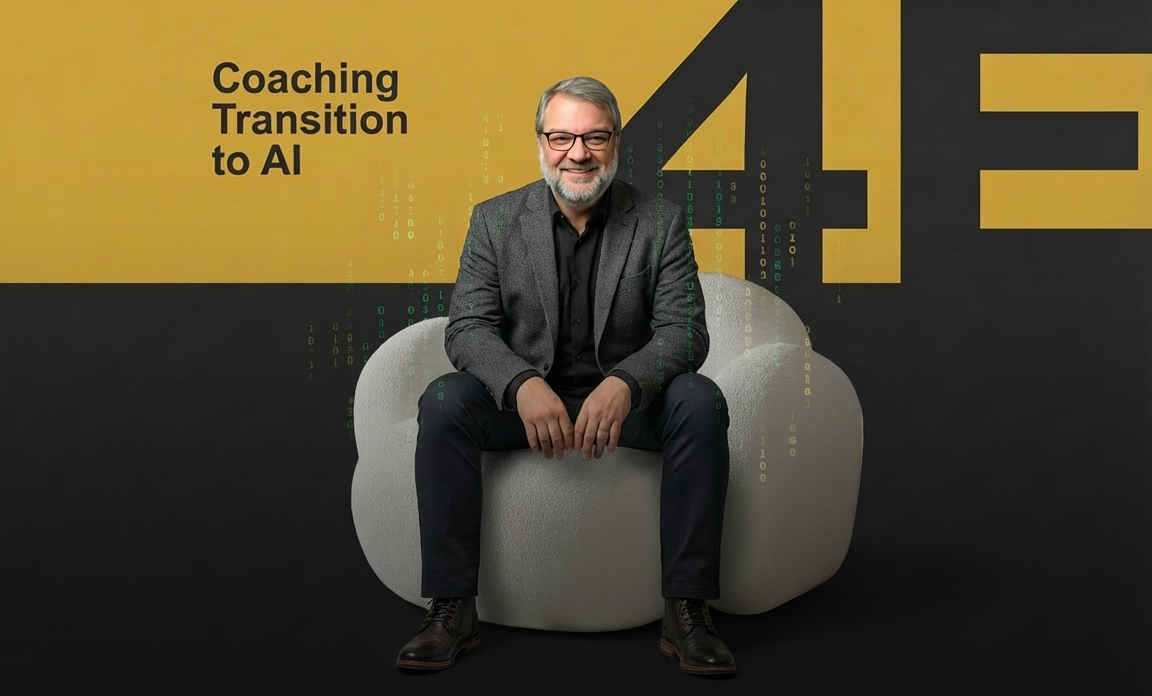
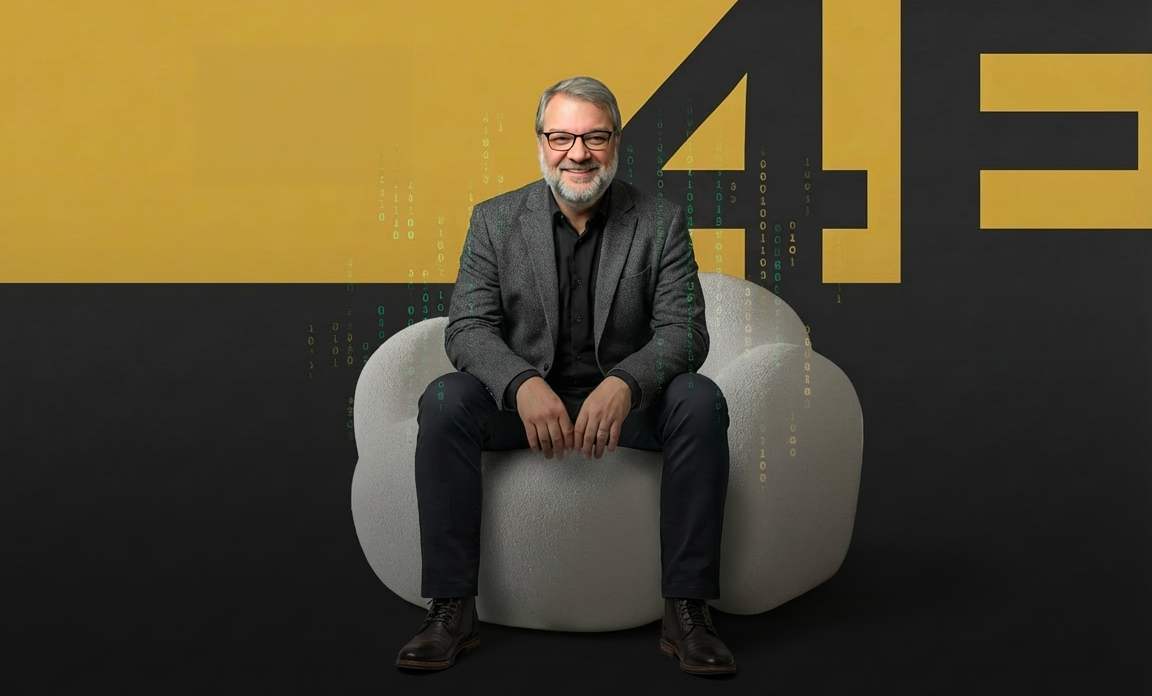
mise a jour titre avec l'image hero

Changed region(s): [[0.1562, 0.0905, 0.375, 0.2716]]

diff --git a/index.html b/index.html
@@ -108,6 +108,29 @@
     display: block;
   }
 
+  .hero-title-overlay {
+    position: absolute;
+    top: 0; left: 0; right: 0;
+    padding: 6rem 3rem 2rem;
+    text-align: center;
+    background: linear-gradient(to bottom, rgba(30,30,32,0.7) 0%, rgba(30,30,32,0.3) 60%, transparent 100%);
+    z-index: 10;
+  }
+
+  .hero-title-overlay h1 {
+    font-family: var(--font-display);
+    font-weight: 800;
+    font-size: clamp(1.8rem, 4.5vw, 3.2rem);
+    line-height: 1.1;
+    letter-spacing: -0.02em;
+    color: var(--text-primary);
+    text-shadow: 0 2px 20px rgba(0,0,0,0.5);
+  }
+
+  .hero-title-overlay h1 span {
+    color: var(--gold);
+  }
+
   /* CTA bar floating at bottom of hero */
   .hero-cta-bar {
     position: absolute;
@@ -509,6 +532,7 @@
     .hero-cta-text { max-width: 100%; }
   }
   @media (max-width: 680px) {
+    .hero-title-overlay { padding: 4.5rem 1.5rem 1.5rem; }
     nav { padding: 0.8rem 1rem; }
     .nav-links { display: none; }
     .nav-links.open {
@@ -543,7 +567,10 @@
 
 <!-- HERO = THE IMAGE, AS-IS -->
 <section class="hero">
-  <img class="hero-img" src="hero.png" alt="David Carvalho — Coaching Transition to AI — 4E Metacognition Design — Organisation Cognitive 2026">
+  <img class="hero-img" src="hero.png" alt="David Carvalho — 4E Metacognition Design — Organisation Cognitive 2026">
+  <div class="hero-title-overlay">
+    <h1 data-fr="Coaching Transition <span>to AI</span>" data-en="Coaching Transition <span>to AI</span>">Coaching Transition <span>to AI</span></h1>
+  </div>
   <div class="hero-cta-bar">
     <div class="hero-cta-text" data-fr="<strong>David Carvalho</strong> — 25 ans de leadership design au service de votre <strong>transformation agentique</strong>" data-en="<strong>David Carvalho</strong> — 25 years of design leadership for your <strong>agentic transformation</strong>"><strong>David Carvalho</strong> — 25 ans de leadership design au service de votre <strong>transformation agentique</strong></div>
     <div class="hero-cta-buttons">
